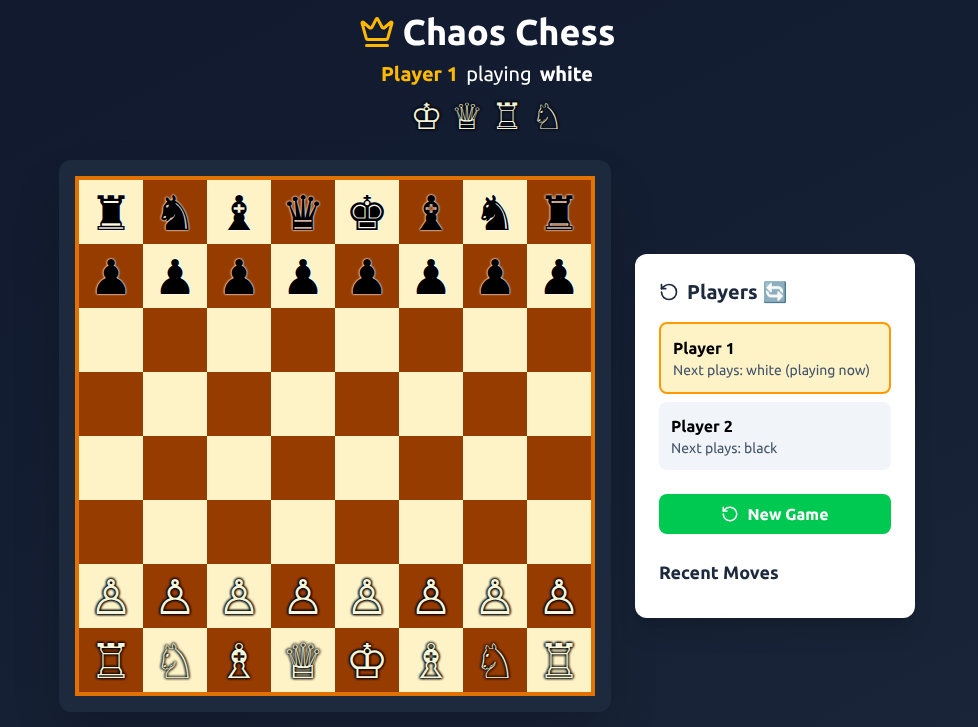
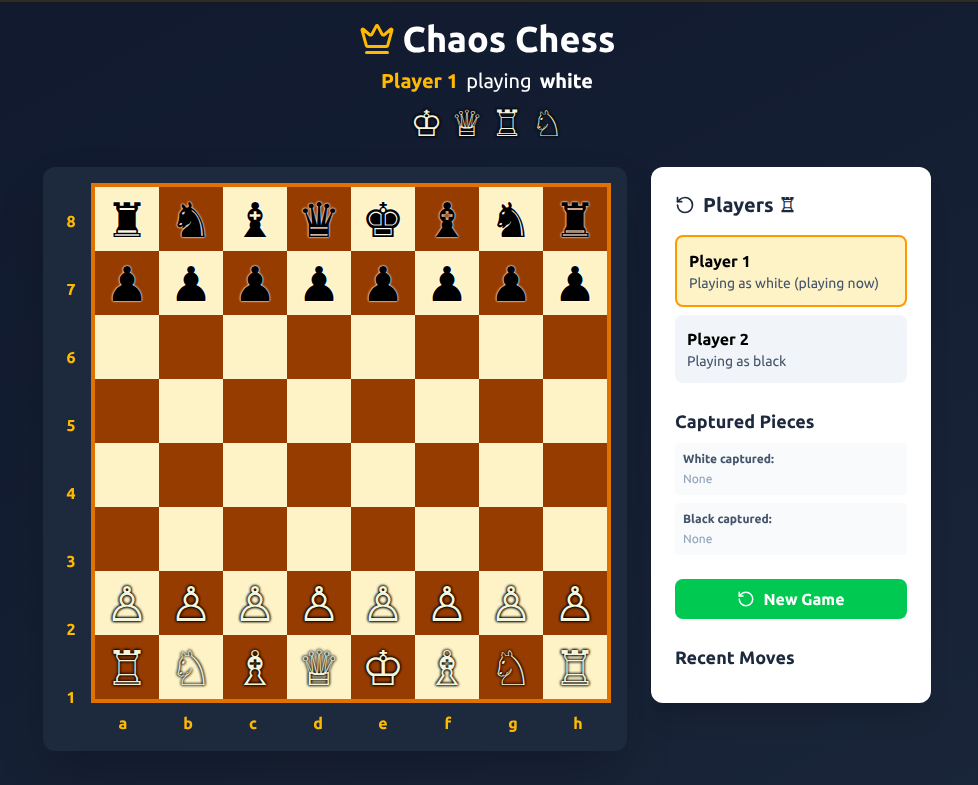
Updated README.md

diff --git a/README.md b/README.md
@@ -1,6 +1,6 @@
 # 👑 Chaos Chess
 
-A web-based chess game with a twist. This app, built with React, Vite, and Tailwind, lets you play chess with some chaotic new rules.
+**Version 0.0.1** - A web-based chess game with a twist. This app, built with React, Vite, and Tailwind, lets you play chess with some chaotic new rules.
 
 ![Chaos Chess Screenshot](<./screenshot.png>)
 
@@ -8,11 +8,14 @@ A web-based chess game with a twist. This app, built with React, Vite, and Tailw
 
 ## Features
 
-* **Classic Mode:** Standard 1v1 chess rules.
+* **Classic Mode (Normie):** Standard 1v1 chess rules.
 * **Chaos Mode (Rotating):** Play with 2+ players. After your move, you start playing for the *next* color in the rotation.
 * **Chaos Mode (Random):** Play with 2+ players. At the start of your turn, you are assigned a random color to play.
-* **Online P2P:** Play with a friend online using a simple WebRTC (peer-to-peer) connection. No server needed.
-* **Real Chess Rules:** Includes win by checkmate, win by king capture, castling, and pawn promotion.
+* **Online P2P:** Play with a friend online using WebRTC (peer-to-peer). No server needed.
+* **Real Chess Rules:** Includes checkmate, stalemate, castling, en passant, and pawn promotion.
+* **Board Coordinates:** Standard algebraic notation (a-h, 1-8) displayed on the board.
+* **Timed Games:** Optional timer mode with customizable time controls.
+* **Points Mode:** Score points by capturing pieces, first to reach target score wins.
 
 ## Tech Stack
 
